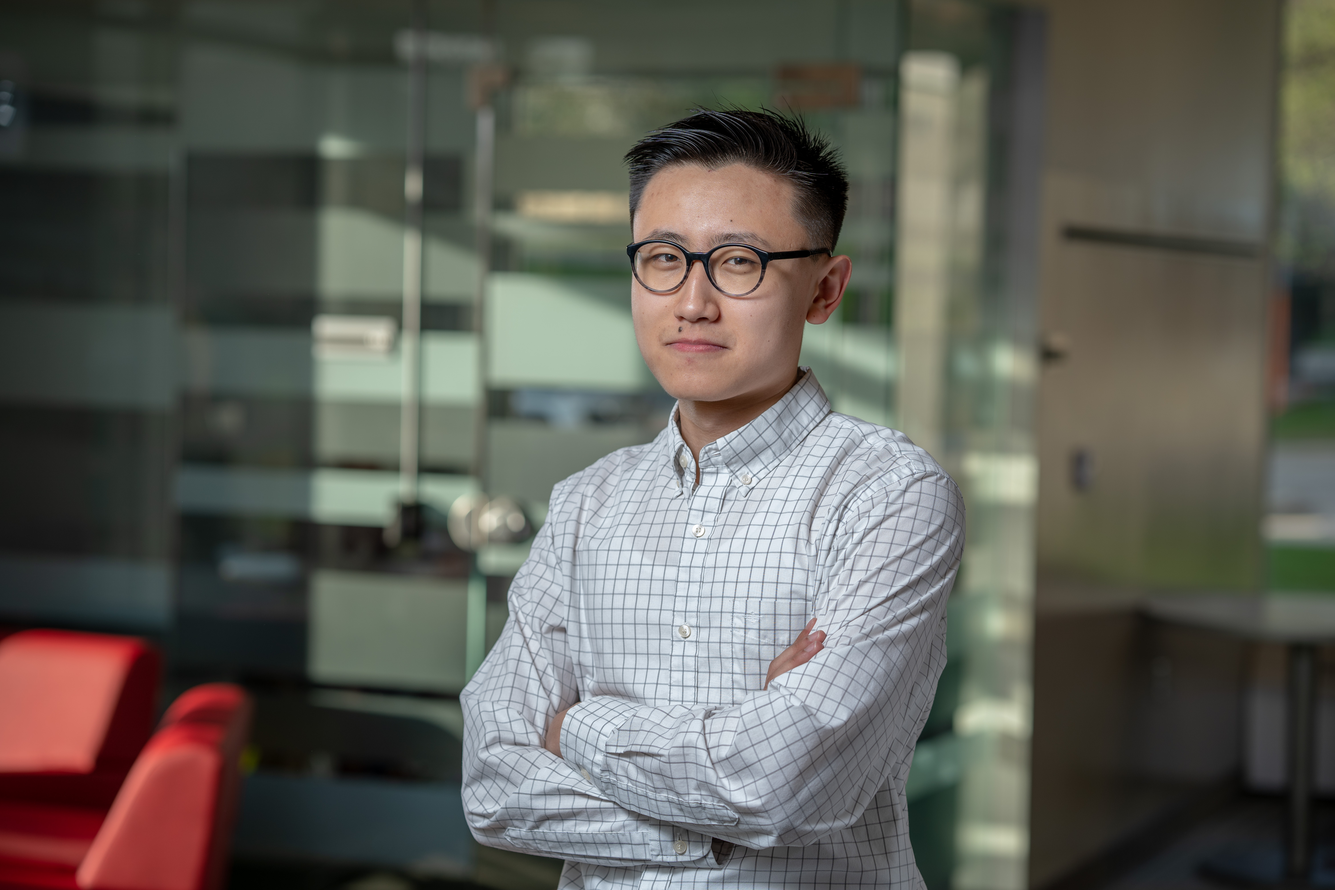
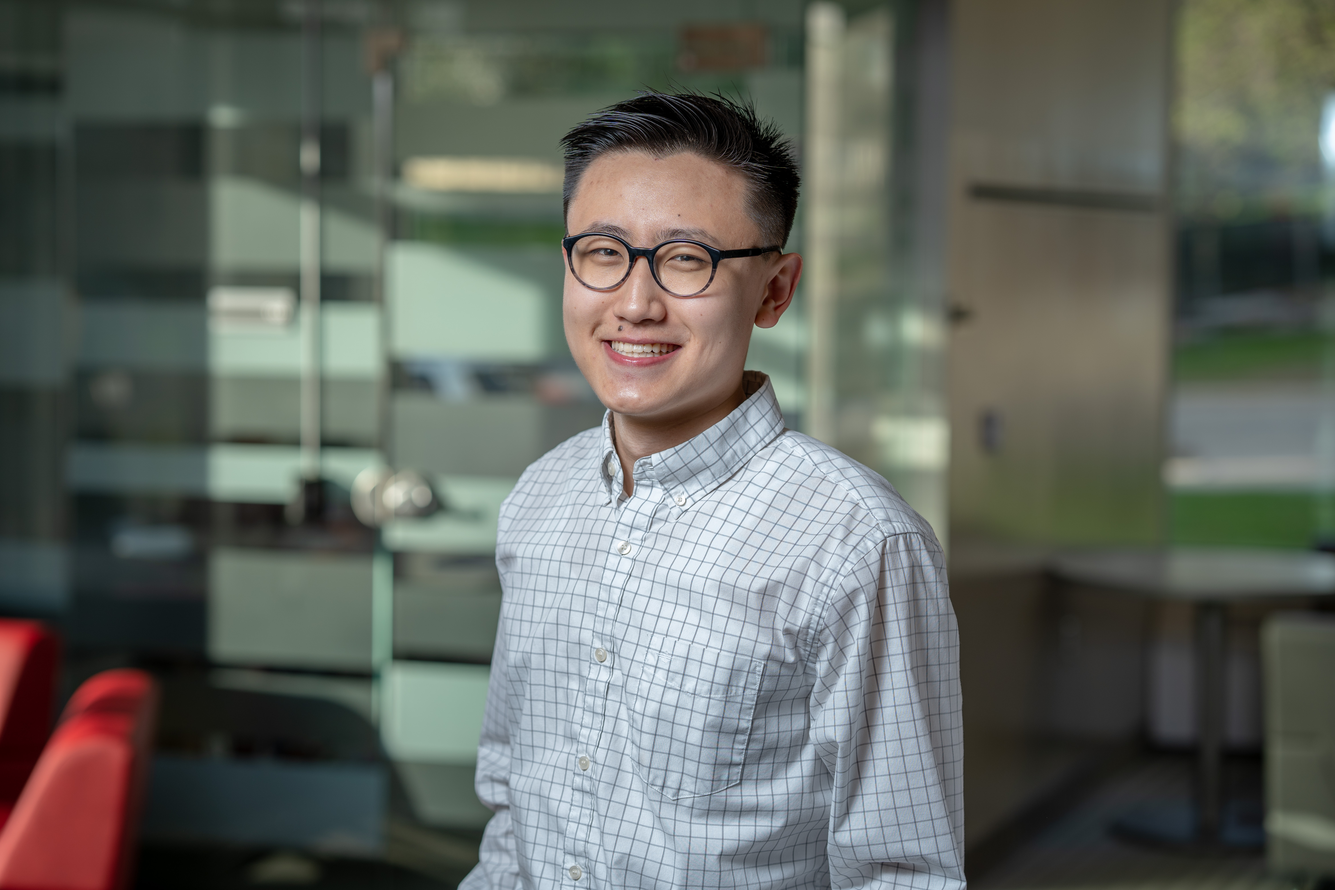
blog setup

diff --git a/src/pages/index.js b/src/pages/index.js
@@ -1,22 +1,42 @@
 import React from 'react';
+import { graphql, useStaticQuery } from 'gatsby';
+import Img from 'gatsby-image';
 
 import Layout from '../components/layout';
 import SEO from '../components/SEO';
 
-const IndexPage = () => (
-    <Layout>
-        <SEO title="Home"/>
-        <h3>Hey!</h3>
-        <br></br>
-        <p>
-            I'm Alain, a computer engineering student at the University of Waterloo. 
-            I'm interested in applying my knowledge to tackle big problems.
-            Over my undergraduate career, I hope to explore the tech industry and find out where I fit!
-        </p>
-        <p>
-            This is my little corner on the internet where I talk about my experiences.
-        </p>
-    </Layout>
-);
+import indexStyles from './index.module.scss';
+
+const IndexPage = () => {
+    const data = useStaticQuery(graphql`
+        query {
+            file(relativePath: { eq: "headshot-UW.jpg" }) {
+                childImageSharp {
+                    fluid(maxHeight: 2000) {
+                        ...GatsbyImageSharpFluid
+                    }
+                }
+            }
+        }
+    `);
+
+    return (
+        <Layout>
+            <SEO title="Home"/>
+            <h3>Hello!</h3>
+            <p>
+                I'm Alain, a computer engineering student at the University of Waterloo. 
+                I'm interested in applying my knowledge to tackle big problems.
+                Over my undergraduate career, I hope to explore the tech industry and find out where I fit!
+            </p>
+            <p>
+                This is my little corner on the internet.
+            </p>
+            <div className={indexStyles.face}>
+                <Img fluid={data.file.childImageSharp.fluid} />
+            </div>
+        </Layout>
+    );    
+};
 
 export default IndexPage;

diff --git a/src/pages/contact.js b/src/pages/contact.js
@@ -4,6 +4,7 @@ import { FaGithub, FaEnvelope, FaLinkedin } from 'react-icons/fa';
 import Layout from '../components/layout';
 import SEO from '../components/SEO';
 
+import commonStyles from '../styles/common.module.scss';
 import contactStyles from './contact.module.scss';
 
 const ContactPage = () => {
@@ -11,17 +12,17 @@ const ContactPage = () => {
         <Layout>
             <SEO title="Contact"/>
             <div className={contactStyles.block}>
-                <a className={contactStyles.link} href="mailto:az2lou@uwaterloo.ca" target="_blank" rel="noopener noreferrer">
+                <a className={commonStyles.link} href="mailto:az2lou@uwaterloo.ca" target="_blank" rel="noopener noreferrer">
                     <FaEnvelope /> Feel free to reach out on email! I'm most responsive here.
                 </a>
             </div>
             <div className={contactStyles.block}>
-                <a className={contactStyles.link} href="https://github.com/alainlou" target="_blank" rel="noopener noreferrer">
+                <a className={commonStyles.link} href="https://github.com/alainlou" target="_blank" rel="noopener noreferrer">
                     <FaGithub /> I put the source code of my personal projects on Github.
                 </a>
             </div>
             <div className={contactStyles.block}>
-                <a className={contactStyles.link} href="https://linkedin.com/in/alainlou">
+                <a className={commonStyles.link} href="https://linkedin.com/in/alainlou">
                     <FaLinkedin /> Connect with me on LinkedIn for job/professional things.
                 </a>
             </div>

diff --git a/src/pages/blog.js b/src/pages/blog.js
@@ -32,10 +32,10 @@ const BlogPage = () => {
                 {data.allMarkdownRemark.edges.map((edge, i) => {
                     return (
                         <div key={i}>
-                            <Link to={`/blog/${edge.node.fields.slug}`} className={commonStyles.plain}>
-                                <h2>{edge.node.frontmatter.title}</h2>
-                                <h6>{edge.node.frontmatter.date}</h6>
-                                <p>{edge.node.excerpt}</p>  
+                            <Link to={`/blog/${edge.node.fields.slug}`} className={commonStyles.link}>                    
+                                <h3>{edge.node.frontmatter.title}</h3>
+                                <h6>{edge.node.frontmatter.date}</h6>                            
+                                <p>{edge.node.excerpt}</p>
                             </Link>
                         </div>
                     )

diff --git a/src/components/card.js b/src/components/card.js
@@ -18,7 +18,7 @@ const CardBody = ({title, content}) => {
 const Card = ({title, fluid, url, content}) => {
     return (   
         <article className={cardStyles.card}>
-            <a className={commonStyles.plain} href={url} target="_blank" rel="noopener noreferrer">
+            <a className={commonStyles.link} href={url} target="_blank" rel="noopener noreferrer">
                 <Img className={cardStyles.cardHeader} fluid={fluid}/>
                 <CardBody title={title} content={content}/>
             </a>

diff --git a/src/templates/blogPost.js b/src/templates/blogPost.js
@@ -18,8 +18,8 @@ export const query = graphql`
 const Blog = (props) => {    
     return (
         <Layout>
-            <h2>{props.data.markdownRemark.frontmatter.title}</h2>
-            <h6>{props.data.markdownRemark.frontmatter.date}</h6>
+            <h1>{props.data.markdownRemark.frontmatter.title}</h1>
+            <h3>{props.data.markdownRemark.frontmatter.date}</h3>
             <div dangerouslySetInnerHTML={{ __html: props.data.markdownRemark.html }}></div>
         </Layout>
     )

diff --git a/src/styles/common.module.scss b/src/styles/common.module.scss
@@ -1,5 +1,9 @@
-.plain {
+.link {
     text-decoration: none;
     outline: 0;
     color: hsla(0, 0%, 0%, 0.8);
+}
+
+.link:hover {
+    color: hsla(0, 0%, 0%, 0.6);
 }

diff --git a/src/pages/contact.module.scss b/src/pages/contact.module.scss
@@ -1,12 +1,3 @@
-.link {
-    color: black;
-    text-decoration: none;
-}
-
-.link:hover {
-    opacity: 0.8;
-}
-
 .block {
     padding-bottom: 2rem;
 }

diff --git a/src/components/header.module.scss b/src/components/header.module.scss
@@ -1,5 +1,5 @@
 .header {
-    padding: 1rem 0 3rem;
+    padding: 1rem 0 1rem;
 }
 
 .title {

diff --git a/src/pages/index.module.scss b/src/pages/index.module.scss
@@ -1,0 +1,3 @@
+.face {
+    margin: auto;
+}

diff --git a/static/blog/2019-06-08.md b/static/blog/2019-06-08.md
@@ -1,0 +1,8 @@
+---
+title: "Coming tonight, I promise!"
+author: "Alain Lou"
+date: "2019-10-27"
+---
+<!-- I finished my first co-op term at the end of April this year. I think I've learned a lot about the tech industry and even more about myself!
+
+I worked as a TSA (Technical Systems Analyst) in OLB (online banking) at RBC (Royal Bank of Canada) in downtown Toronto. -->
